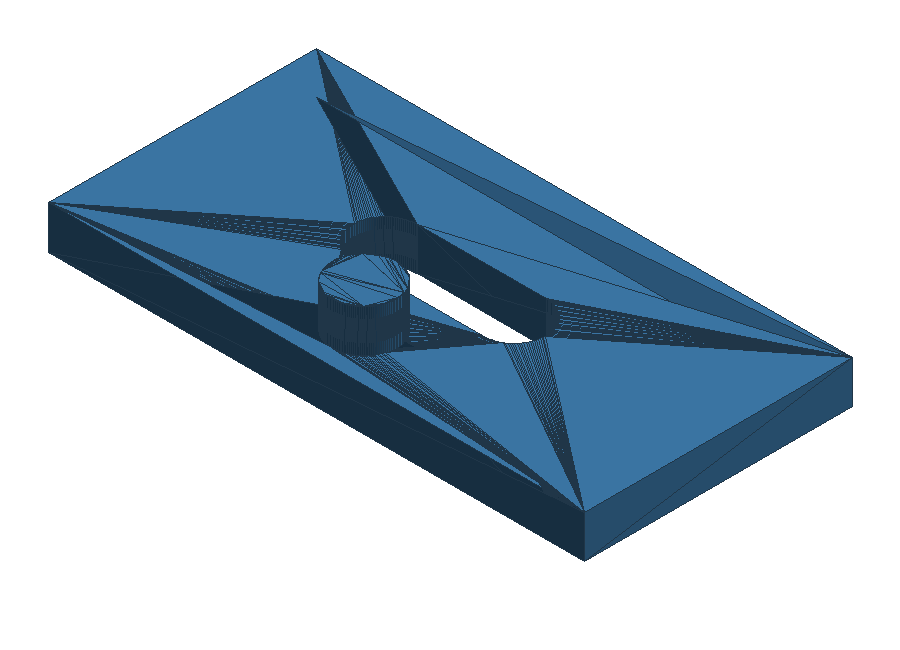
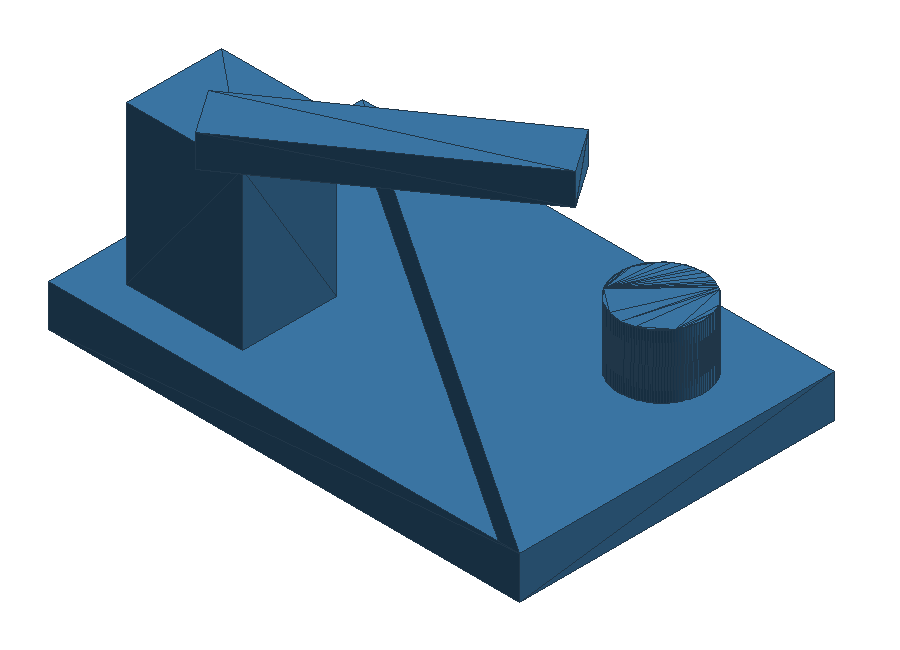
Replace README screenshot with a mated-assembly render

diff --git a/LOG.md b/LOG.md
@@ -282,3 +282,7 @@
   arm clear then colliding, with the out-of-range warning emitted at 90 deg
   against a declared 75 deg limit. Full suite `131 passed` (124 + 7 new),
   merged to `master`.
+- Replaced the README hero screenshot (single slotted plate) with a shaded
+  render of a four-part mated assembly (base, tower, revolute-posed swing arm
+  at -35 deg, pivot boss) produced by the ADR 0024/0025 mate API, so the
+  first image shows current capability.

diff --git a/README.md b/README.md
@@ -9,7 +9,7 @@ The first implementation is intentionally CLI-first. MCP and richer browser
 viewer integrations can wrap the same run artifacts once the local contract is
 stable.
 
-![Shaded CAD output](docs/images/cad-output.png)
+![Shaded render of a four-part mated assembly: base plate, tower, revolute-posed swing arm, and pivot boss](docs/images/cad-output.png)
 
 ## Quick Start
 